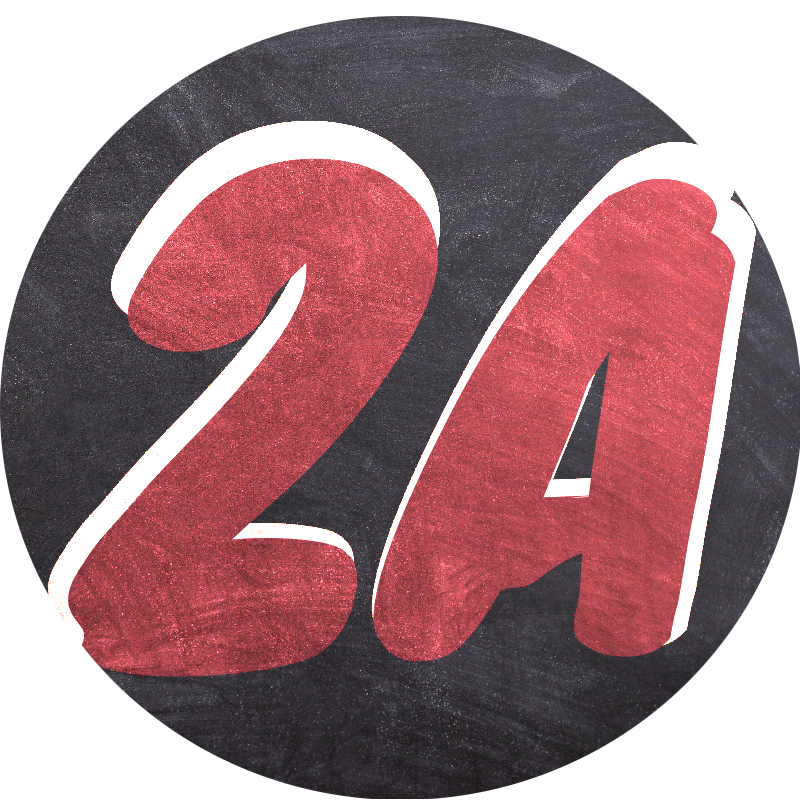
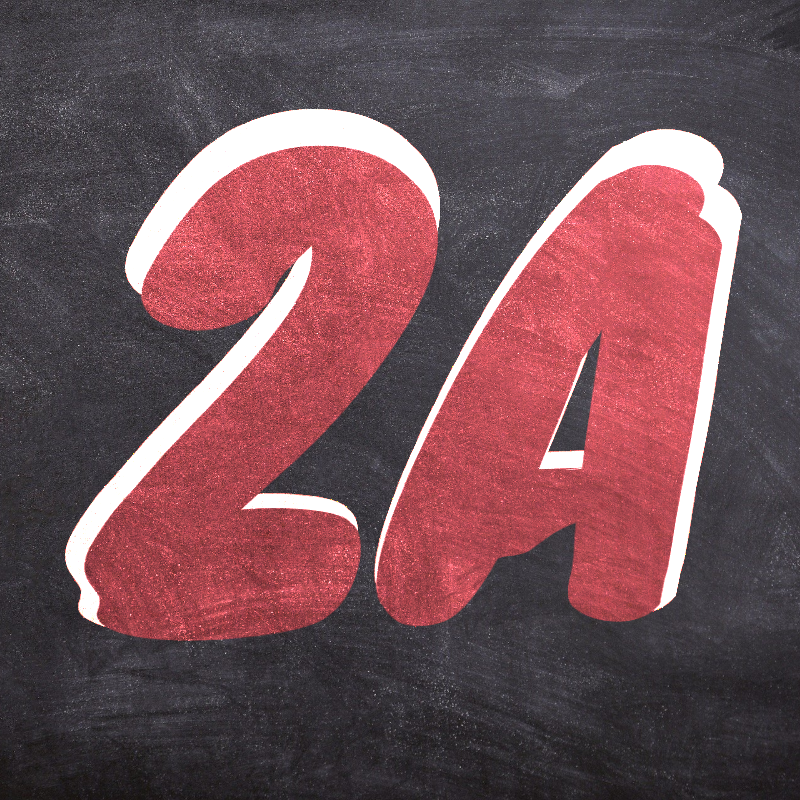
30-1-2021

diff --git a/lib/main.dart b/lib/main.dart
@@ -8,24 +8,24 @@ class MyApp extends StatelessWidget {
   @override
   Widget build(BuildContext context) {
     return MaterialApp(
-      title: 'Widget Of The Week',
-      home: Scaffold(
-        drawer: Drawer(),
-        appBar: AppBar(
-          title: Text('PhysicalModel Widget'),
-        ),
-        body: Center(
-          child: PhysicalModel(
-            color: Colors.transparent,
-            shadowColor: Colors.blue,
-            shape: BoxShape.circle,
-            elevation: 20,
-            child: Image.asset(
-              'assets/2a.png',
+        title: 'Widget Of The Week',
+        home: Scaffold(
+          appBar: AppBar(
+            title: Text('PhysicalModel Widget'),
+          ),
+          body: Center(
+            child: PhysicalModel(
+              color: Colors.yellow,
+              shadowColor: Colors.pink,
+              elevation: 20,
+              //shape: BoxShape.circle,
+              borderRadius: BorderRadius.circular(15),
+              child: Image.asset(
+                'assets/2a.png',
+                width: 200,
+              ),
             ),
           ),
-        ),
-      ),
-    );
+        ));
   }
 }
